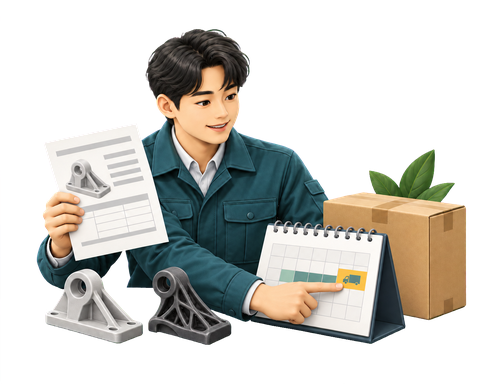
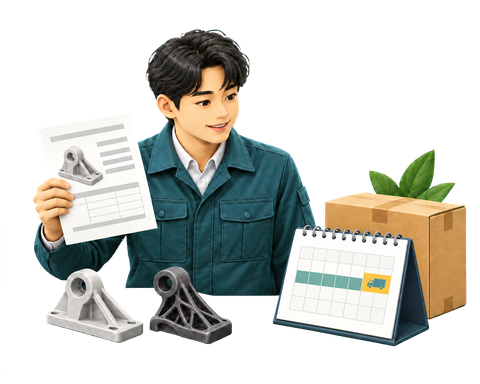
기능: 주간 인기 글과 단계 아이콘 수정

diff --git a/src/app/blog/page.tsx b/src/app/blog/page.tsx
@@ -5,11 +5,12 @@ import { blogJsonLd, listUrl } from '@/lib/seo'
 import { JsonLd } from '@/components/JsonLd'
 import { ChannelTalk } from '@/components/ChannelTalk'
 import { CategoryNav } from '@/components/CategoryNav'
-import { PostList, paginate } from '@/components/PostList'
 import { SeasonalBanner } from '@/components/SeasonalBanner'
 import { imageSrc } from '@/lib/imageSize'
 import { SEASONAL } from '@/config/site'
 import { StageExplorer } from '@/components/StageExplorer'
+import { PopularPostGrid } from '@/components/PopularPostGrid'
+import { popularSlugs } from '@/lib/popular'
 
 /**
  * 검색결과와 브라우저 탭에 뜨는 제목. 화면 맨 위 표지와 같은 문구를 쓴다.
@@ -38,7 +39,12 @@ export const metadata: Metadata = {
 export default async function BlogIndex() {
   const posts = await listPosts()
   const categories = await listCategories()
-  const { items, page, totalPages } = paginate(posts, 1)
+  const rankedPosts = popularSlugs()
+    .map((slug) => posts.find((post) => post.slug === slug))
+    .filter((post): post is (typeof posts)[number] => Boolean(post))
+    .slice(0, 6)
+  const hasWeeklyRanking = rankedPosts.length >= 6
+  const homePosts = hasWeeklyRanking ? rankedPosts : posts.slice(0, 6)
 
   return (
     <>
@@ -71,18 +77,7 @@ export default async function BlogIndex() {
             )}
           />
 
-          {/*
-            전체 보기에는 큰 카드를 두지 않는다. 위에 이미 계절 배너가 있어서
-            큰 그림이 두 번 연달아 나오고, 맨 위 한 편만 유난히 커 보인다.
-            분야별 목록에는 배너가 없어 그대로 둔다.
-          */}
-          <PostList
-            posts={items}
-            page={page}
-            totalPages={totalPages}
-            basePath={SITE.basePath}
-            showFeatured={false}
-          />
+          <PopularPostGrid posts={homePosts} ranked={hasWeeklyRanking} />
         </div>
       </div>
     </>

diff --git a/src/components/PopularPostGrid.tsx b/src/components/PopularPostGrid.tsx
@@ -1,0 +1,28 @@
+import type { PostMeta } from '@/lib/notion'
+import { PostCard } from './PostCard'
+
+export function PopularPostGrid({ posts, ranked }: { posts: PostMeta[]; ranked: boolean }) {
+  if (posts.length === 0) return null
+
+  return (
+    <section className="popular-post-grid" aria-labelledby="popular-post-grid-title">
+      <header className="popular-post-grid-head">
+        <span>{ranked ? '최근 7일 조회 기준' : '새로 발행한 글'}</span>
+        <h2 id="popular-post-grid-title">
+          {ranked ? '주간 인기 글' : '최근 업데이트된 글'}
+        </h2>
+        <p>
+          {ranked
+            ? '이번 주에 가장 많이 읽힌 글 6편입니다.'
+            : '조회 데이터가 충분히 쌓이기 전에는 최근 글 6편을 보여드립니다.'}
+        </p>
+      </header>
+
+      <div className="card-grid popular-post-grid-cards">
+        {posts.map((post) => (
+          <PostCard key={post.slug} post={post} />
+        ))}
+      </div>
+    </section>
+  )
+}

diff --git a/src/app/globals.css b/src/app/globals.css
@@ -3097,6 +3097,38 @@ button.cta-button {
   color: rgba(255, 255, 255, 0.76);
 }
 
+.popular-post-grid {
+  margin-top: 46px;
+  padding-top: 34px;
+  border-top: 1px solid #e1e7e4;
+}
+
+.popular-post-grid-head > span {
+  color: #007281;
+  font-size: 13px;
+  font-weight: 800;
+}
+
+.popular-post-grid-head h2 {
+  margin: 7px 0 8px;
+  color: #17212d;
+  font-size: 29px;
+  line-height: 1.25;
+  letter-spacing: -0.045em;
+}
+
+.popular-post-grid-head p {
+  margin: 0;
+  color: #66747f;
+  font-size: 15px;
+  line-height: 1.65;
+}
+
+.popular-post-grid-cards {
+  margin-top: 24px;
+  margin-bottom: 0;
+}
+
 @media (max-width: 920px) {
   .stage-explorer-card {
     grid-template-columns: minmax(0, 1fr) 118px;
@@ -3145,5 +3177,10 @@ button.cta-button {
     align-items: start;
     flex-direction: column;
     gap: 9px;
+  }
+
+  .popular-post-grid {
+    margin-top: 36px;
+    padding-top: 28px;
   }
 }
